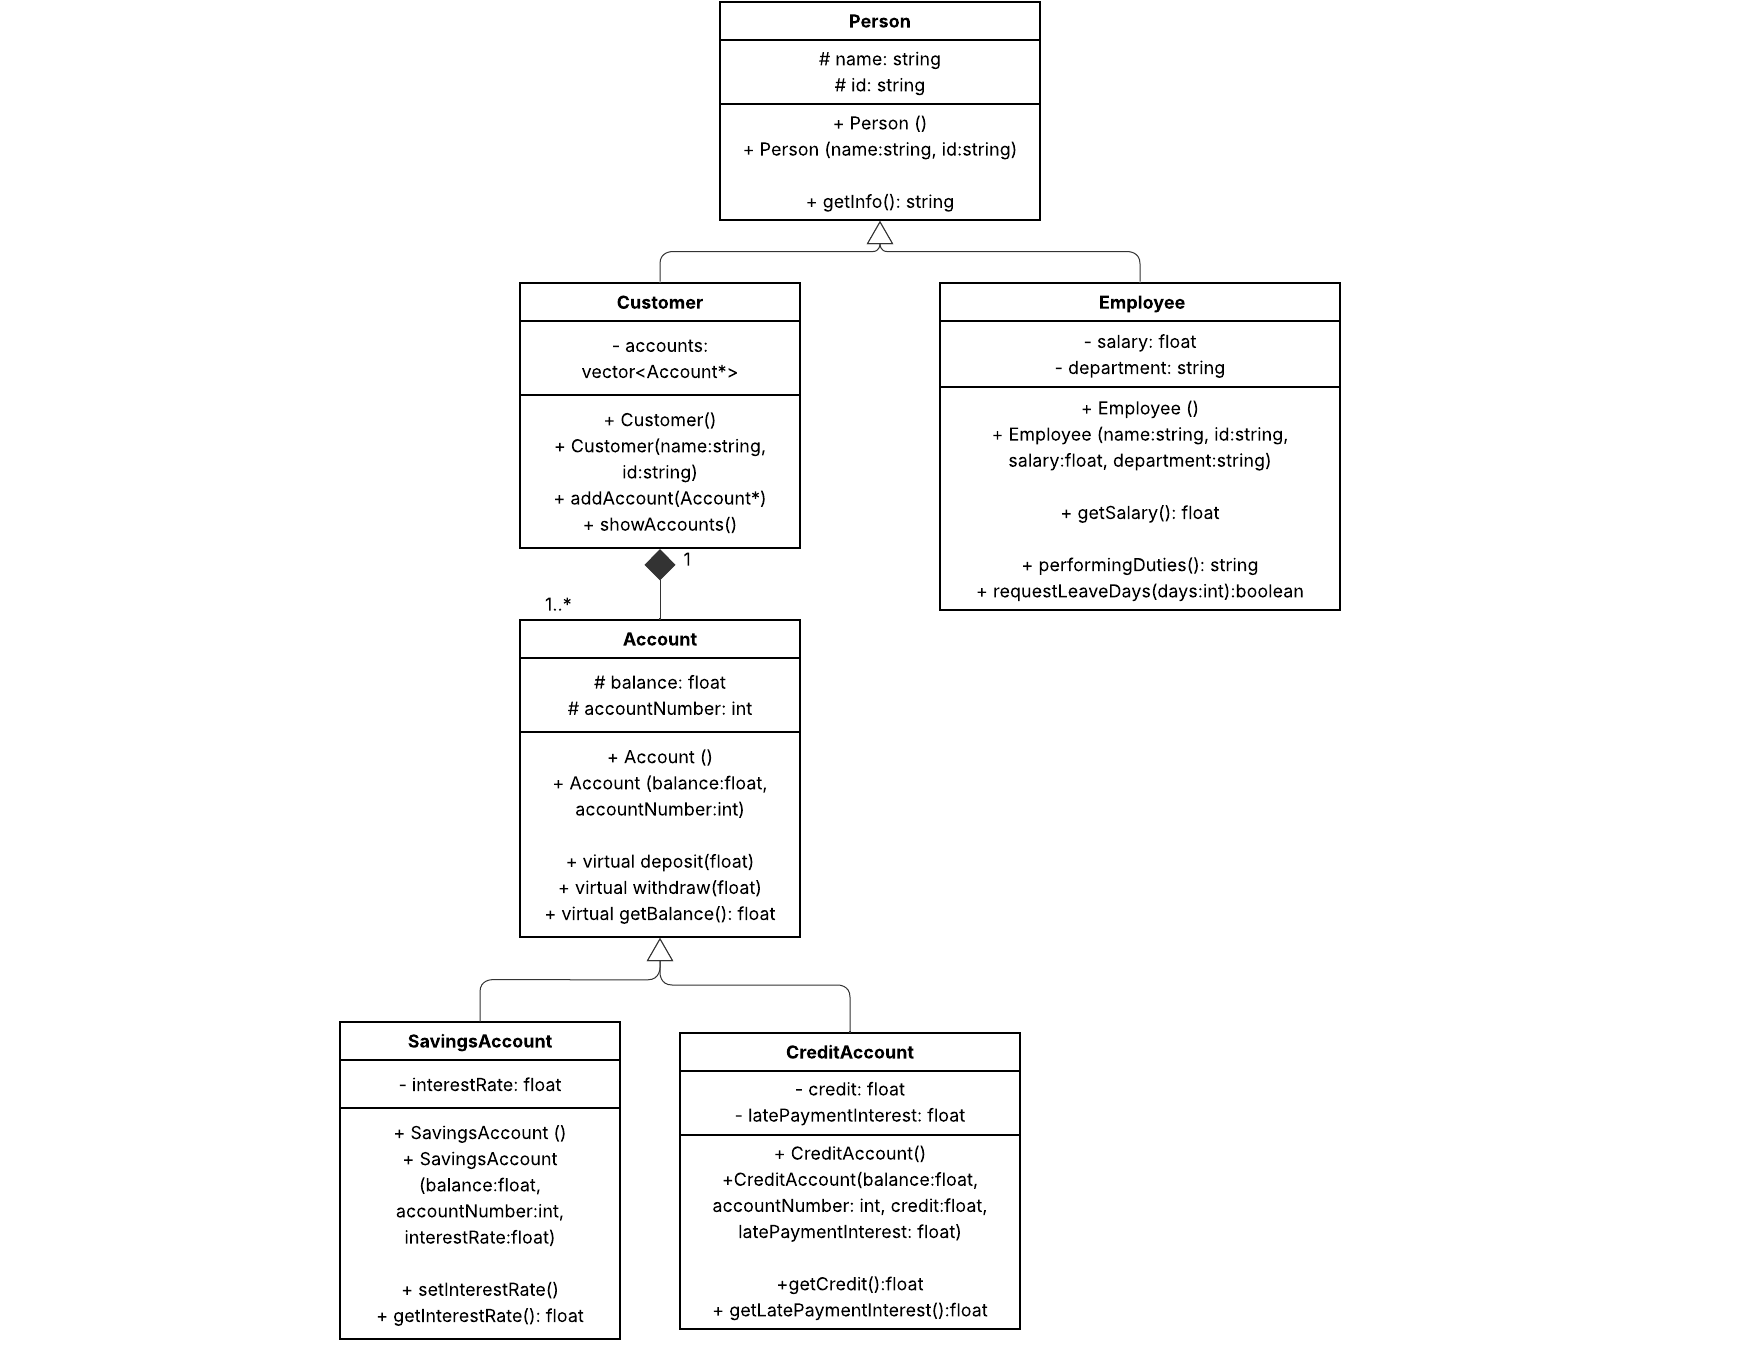
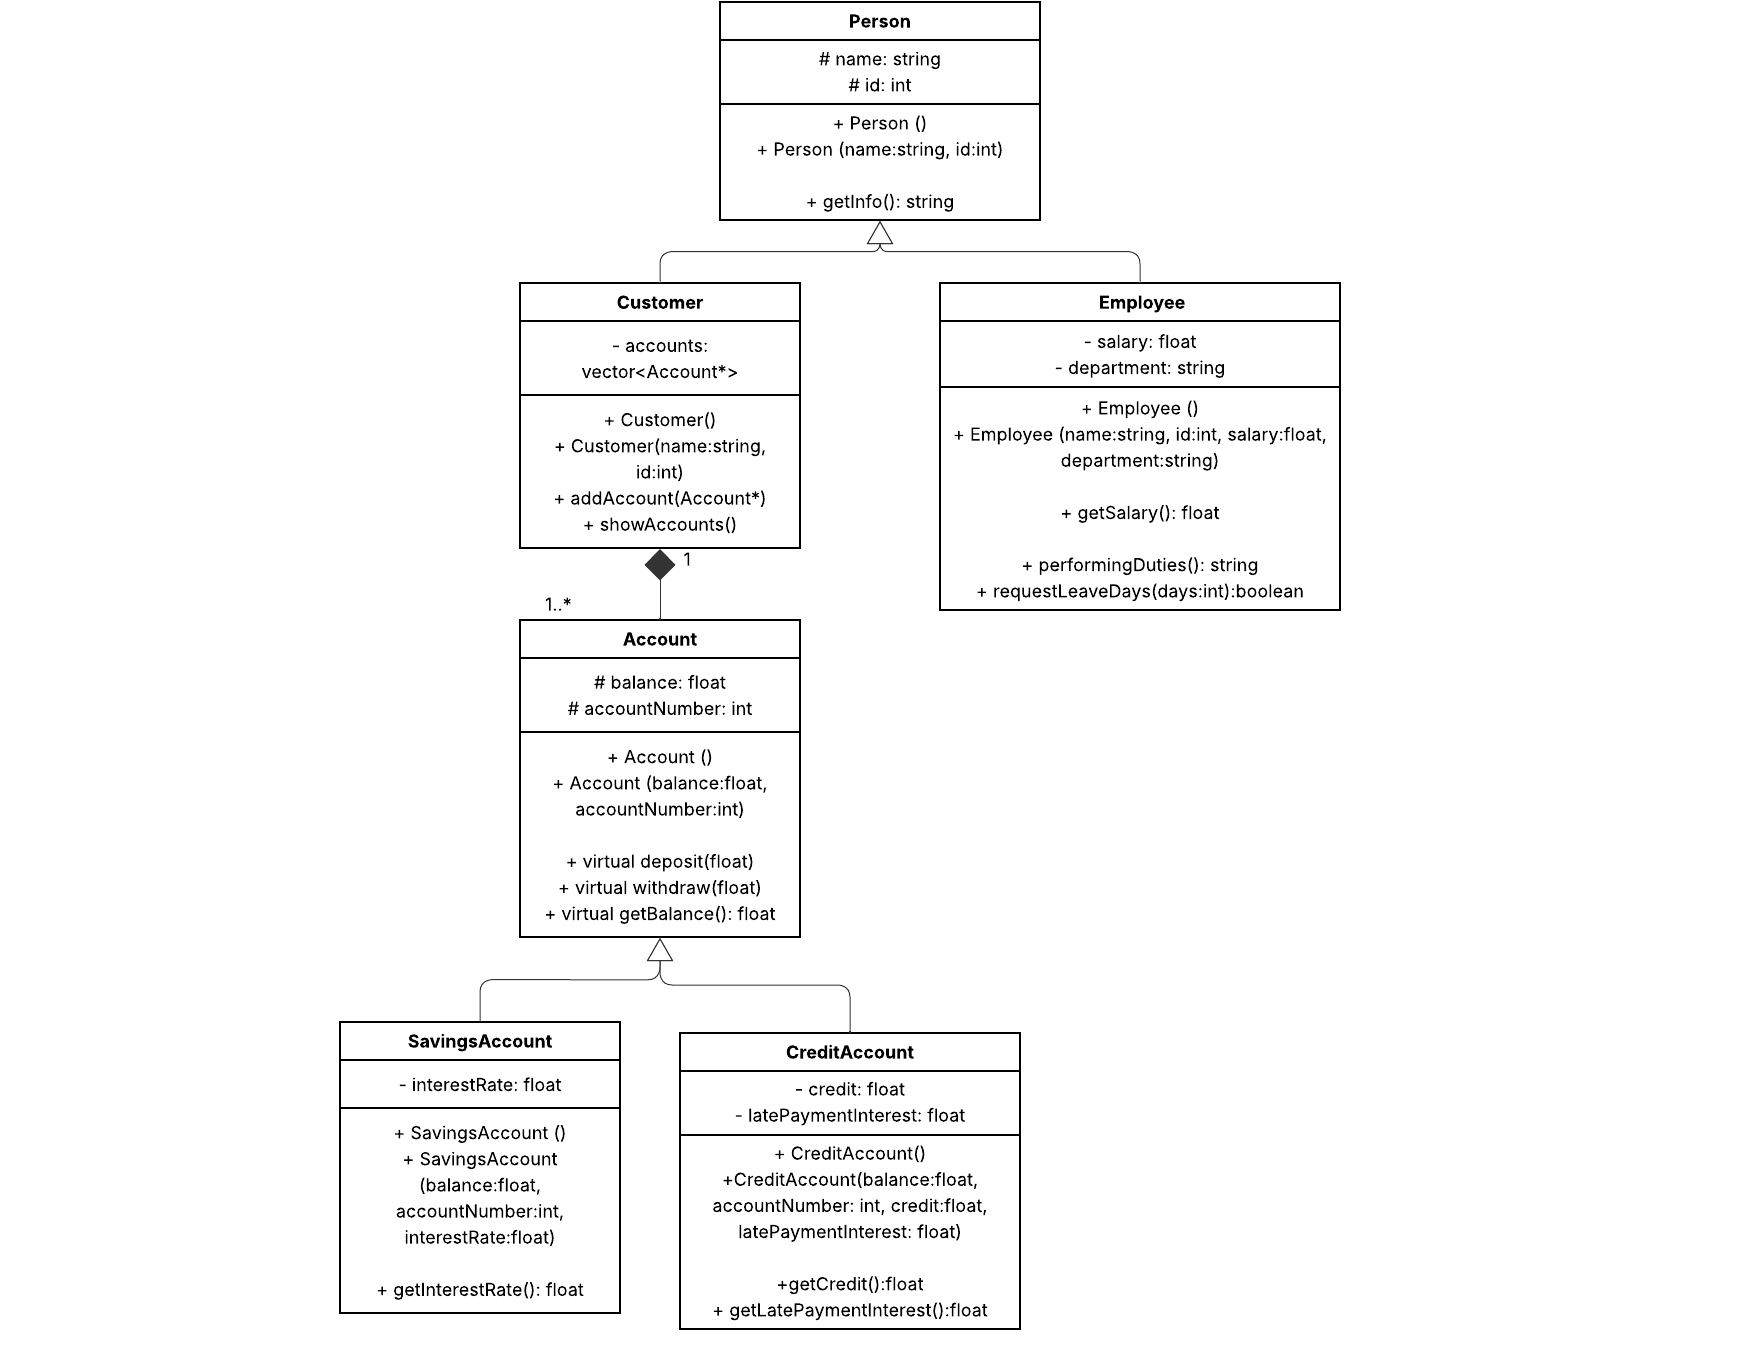
Add files via upload

diff --git a/VaultCore.cpp b/VaultCore.cpp
@@ -12,44 +12,45 @@ using namespace std;
 
 int main() {
     
+    // 1. Client
     Customer client1("Maria Fernanda", 101);
     
+    // 2. Creating accounts using pointers
+    Account* savings = new SavingsAccount(5000.0, 12345, 7.5);
+    Account* credit = new CreditAccount(1000.0, 67890, 5000.0, 50.0);
     
-    SavingsAccount savings(5000.0, 0.05, 12345);
-    CreditAccount credit(1000.0, 67890, 5000.0, 50.0);
+    // 3. Add accounts
+    client1.addAccount(savings);
+    client1.addAccount(credit);
     
-    
-    client1.addSavingsAccount(savings);
-    client1.addCreditAccount(credit);
-    
-    cout << "--- Client Registration ---" << endl;
-    cout << "Client: " << "Maria Fernanda" << " (ID: 101) successfully registered." << endl;
-    cout << "Accounts added succesfully." << endl << endl;
+    cout << "--- Client Registration ---\n" << endl;
+    cout << "Client: Maria Fernanda (ID: 101) successfully registered." << endl;
 
+    // 4. Show balances
+    cout << "--- Account Balances ---\n" << endl;
+    client1.showAccounts(); 
+    cout << endl;
     
-    Employee emp1("Juan Perez", 999, 15000.0, "Finance");
+    // 5. Employee
+    Employee emp1("Rashell Aleck", 999, 15000.0, "Finance");
     
-    cout << "--- Employee Registration ---" << endl;
-    cout << "Employee: " << "Juan Perez" << endl;
-    cout << "Department: " << "Finanzas" << endl;
+    cout << "--- Employee Registration ---\n" << endl;
+    cout << "Employee: " << "Rashell Aleck" << endl;
+    cout << "Department: " << "Finance" << endl;
     cout << "Action: " << emp1.performingDuties() << endl << endl;
     
-    
-    cout << "--- Vacation Request ---" << endl;
+    cout << "--- Vacation Request ---\n" << endl;
     int days1 = 15;
+    cout << "Requesting " << days1 << " days: ";
+    if(emp1.requestLeaveDays(days1)) {
+        cout << "Approved" << endl;
+    } else {
+        cout << "Denied" << endl;
+    }
     
-    if (emp1.requestLeaveDays(days1)) {
-        cout << "Request of de " << days1 << " dias: APROBADA." << endl;
-    } else {
-        cout << "Request of " << days1 << " dias: RECHAZADA." << endl;
-    }
-
-    int days2 = 45;
-    if (emp1.requestLeaveDays(days2)) {
-        cout << "Request of " << days2 << " days: APPROVED." << endl;
-    } else {
-        cout << "Request of " << days2 << " days: DENIED." << endl;
-    }
-
+    // 6. Free heap memory (IMPORTANT)
+    delete savings;
+    delete credit;
+    
     return 0;
 }

diff --git a/CreditAccount.h b/CreditAccount.h
@@ -3,37 +3,27 @@
 # ifndef CREDITACCOUNT_H
 # define CREDITACCOUNT_H
 
+# include "Account.h"
 # include <iostream>
 
 using namespace std; 
 
-class CreditAccount {
+class CreditAccount : public Account {
 
 private:
     // Attributes
-    int accountNumber;
-    float balance;
     float credit;
     float latePaymentInterest;
 
 public: 
 
     // Empty constructor
-    CreditAccount(): accountNumber(0), balance(0), credit(0), latePaymentInterest(50){}
+    CreditAccount(): Account() ,credit(0), latePaymentInterest(50){}
 
     // Constructor with parameters
-    CreditAccount(float bal, int accNum, float cre, float payInt): balance(bal), 
-    accountNumber(accNum), credit(cre), latePaymentInterest(payInt){};
-
+    CreditAccount(float bal, int accNum, float cre, float payInt): Account(bal, accNum), credit(cre), latePaymentInterest(payInt){}
+    
 // Getters
-int getAccountNumber(){
-    return accountNumber;
-}
-
-float getBalance(){
-    return balance;
-}
-
 
 float getCredit(){
     return credit;
@@ -42,22 +32,6 @@ float getCredit(){
 float getLatePaymentInterest(){
     return latePaymentInterest;
 }
-
-
-// Methods
-float deposit(float amount){
-        return balance += amount;
-    }
-
-    float withdraw(float amount){
-        if (balance > 0 and amount <= balance){
-            return balance -= amount;
-        }
-        else {
-            cout << "Insufficient balance" << endl;
-            return balance;
-        }
-    }
 
 };
 

diff --git a/SavingsAccount.h b/SavingsAccount.h
@@ -3,54 +3,32 @@
 # ifndef SAVINGSACCOUNT_H
 # define SAVINGSACCOUNT_H
 
+# include "Account.h"
 # include <iostream>
 
 using namespace std;
 
-class SavingsAccount{
+class SavingsAccount: public Account {
 
 private:
     // Attributes
-    float balance;
     float interestRate;
-    int accountNumber;
+  
 
 public: 
 
     // Empty cosntructor
-    SavingsAccount(): balance(0), interestRate(7.5), accountNumber(0){}
+    SavingsAccount(): Account(), interestRate(7.5){}
 
     // Constructor with parameters
-    SavingsAccount( float bal, float inRate, int accNum): balance(bal), interestRate(inRate), accountNumber(accNum){};
+    SavingsAccount( float bal, int accNum, float inRate): Account(bal, accNum), interestRate(inRate){}
 
     // Getters 
-    float getBalance(){
-        return balance;
-    }
 
     float getInterestRate() const {
         return interestRate;
     }
 
-    int getAccountNumber() const {
-        return accountNumber;
-    }
-
-    // Methods
-
-    float deposit(float amount){
-        return balance += amount;
-    }
-
-    float withdraw(float amount){
-        if (balance > 0 and amount <= balance){
-            return balance -= amount;
-        }
-        else {
-            cout << "Insufficient balance" << endl;
-            return balance;
-        }
-    }
 
 };
 

diff --git a/Customer.h b/Customer.h
@@ -1,18 +1,19 @@
-// Classs Customer
+// Class Customer
 
 # ifndef CUSTOMER_H
 # define CUSTOMER_H
 
 # include "Person.h"
-# include "SavingsAccount.h"
-# include "CreditAccount.h"
+# include "Account.h"
 # include <vector>
+# include <iostream>
+
+using namespace std;
 
 class Customer : public Person {
     private:
-    // Atributos
-    vector<SavingsAccount> sAccount;
-    vector<CreditAccount> cAccount;
+    // Attributes
+    vector<Account*> accounts;
 
     public:
     // Empty constructor
@@ -23,15 +24,17 @@ class Customer : public Person {
 
     // Methods
     // Function pus_back to add elements into the vector
-    void addSavingsAccount(SavingsAccount newSavingsAccount){
-        sAccount.push_back(newSavingsAccount);
-    }
+    // Added the account pointer 
 
-    void addCreditAccount(CreditAccount newCreditAccount){
-        cAccount.push_back(newCreditAccount);
+    void addAccount(Account* newAccount){
+        accounts.push_back(newAccount);
     }
-
     
+    void showAccounts(){
+        for (size_t i = 0; i < accounts.size(); i++) {
+            cout << "Account Balance: " << accounts[i]->getBalance() << endl;
+         }
+    } 
 
 };
 

diff --git a/Account.h b/Account.h
@@ -1,0 +1,45 @@
+// Class Account
+
+# ifndef ACCOUNT_H
+# define ACCOUNT_H
+
+# include <iostream>
+
+using namespace std;
+
+class Account {
+    protected:
+
+    // Attributes
+    float balance;
+    int accountNumber;
+
+    public:
+    // Empty constructor
+    Account(): balance(0.0), accountNumber(0) {}
+
+    // Default constructor
+    Account(float bal, int accNum): balance(bal), accountNumber(accNum) {}
+
+    // Methods
+
+    virtual float withdraw(float amount){
+        if (balance > 0 and amount <= balance){
+            return balance -= amount;
+        }
+        else {
+            cout << "Insufficient balance" << endl;
+            return balance;
+        }
+    }
+
+     virtual float deposit(float amount){
+        return balance += amount;
+    }
+
+    virtual float getBalance(){
+        return balance;
+    }
+};
+
+# endif

diff --git a/Person.h b/Person.h
@@ -21,6 +21,13 @@ public:
     // Constructor with parameters
     Person(string nom, int ident) : name(nom), id(ident){};
 
+    // Methods
+
+    void getInfo(){
+        cout << "Name: " << name << endl;
+        cout << "ID: " << id << endl;
+    };
+
 };
 
 # endif
